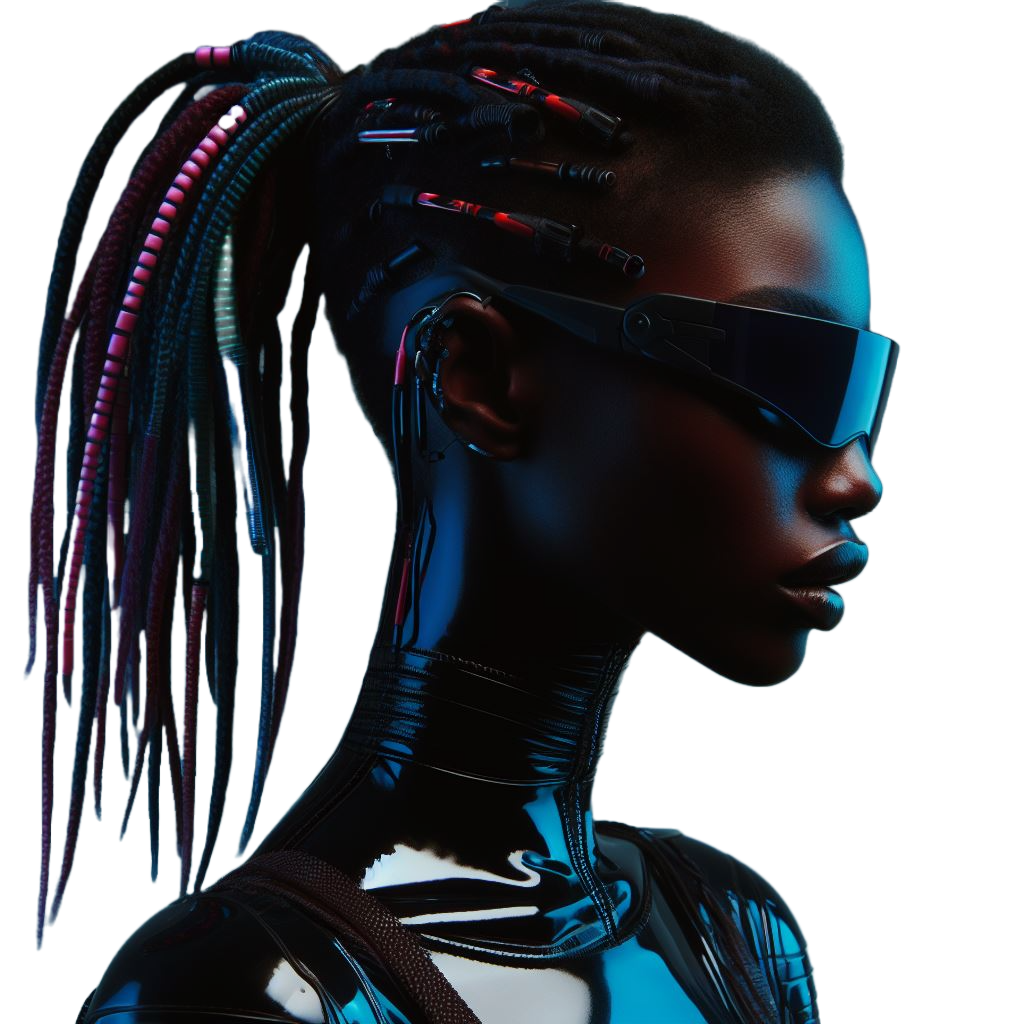
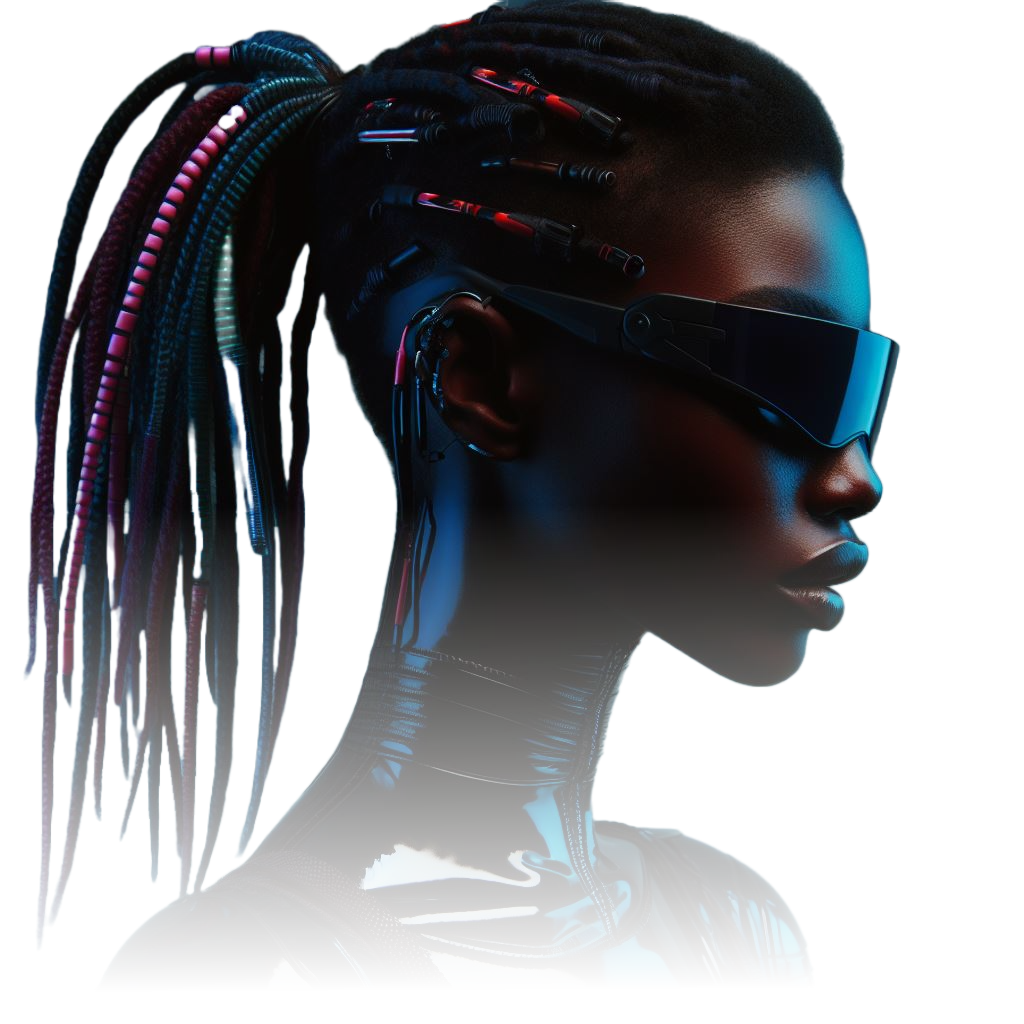
Responsive

Changed region(s): [[0.0, 0.5312, 0.8438, 1.0]]

diff --git a/style.css b/style.css
@@ -111,9 +111,16 @@ main #page-2 .aside h2{
     color: rgb(0, 153, 255);
     filter: drop-shadow(0 0 0.75rem rgba(255, 255, 255, 0.329));
 }
-main #page-2 .aside span{
+main #page-2 .aside a{
     border: 1px solid white;
     padding: 10px;
+    cursor: pointer;
+    transition: 1s;
+}
+main #page-2 .aside a:hover{
+    background-color: white;
+    color: rgb(25, 25, 25);
+    transform: scale(10px);
 }
 main #page-2 .other-side{
     width: 30%;
@@ -225,26 +232,32 @@ footer span{
         position: fixed;
         overflow: hidden;
     }
-    header nav{
+    header nav .none{
         display: none;
+    }
+    header nav{
+        overflow: hidden;
+    }
+    header nav a{
+        font-size: 3vw;
+        overflow: hidden;
+        margin-right: 30vw;
+        overflow: hidden;
+    }
+    header .header-icon img{
+        width: 30%; 
+    }
+    main #page-1{
+        height: 70vh;
     }
     main #page-1 .main-container{
         width: 100%;
-        height: 80vh;
-        margin-top: -20vh;
         display: flex;
         flex-direction: column;
         align-items: center;
         justify-content: flex-end; 
         border: 0px;
         border-radius: 0px;
-    }
-    main #page-1 .main-container h3{
-        display: contents;
-        font-size: 20vw;
-        color: rgb(255, 255, 255);
-        filter: drop-shadow(0 0 0.75rem rgba(235, 235, 235, 0.144));
-        font-family: 'Jost', sans-serif;
     }
     main #page-1 .main-container img{
         width: 90vw;
@@ -255,8 +268,8 @@ footer span{
         display: none;
     }
     main #page-2{
-        height: 130vh;
-        margin-top: -5vh;
+        height: 100vh;
+        margin-top: 3vh;
         flex-direction: column;
     }
     main #page-2 .aside{
@@ -265,8 +278,9 @@ footer span{
         overflow: hidden;
     }
     main #page-2 .aside h1{
-        font-size: 2rem;
+        font-size:8vw;
         overflow: hidden;
+        width: 100vw;
     }
     main #page-2 .aside h2{
         font-size: 1rem;
@@ -275,14 +289,15 @@ footer span{
         font-size: .7rem;
         padding: 10px 0 10px 0;
     }
-    main #page-2 .aside span{
+    main #page-2 .aside a{
+        font-size: 4vw;
         border: 1px solid white;
         padding: 10px;
     }
     main #page-2 .other-side{
         overflow: hidden;
         width: 80%;
-        margin-top: -20vh;
+        margin-top: -10vh;
     }
     main #page-2 .other-side img{
         width: 60vw;
@@ -317,7 +332,7 @@ footer span{
         box-shadow: rgba(0, 0, 0, 0.24) 0px 3px 8px;
     }
     main #page-4{
-        height: 70vh;
+        height: 80vh;
     }
     main #page-4 h1{
         font-size: 10vw;
@@ -326,6 +341,15 @@ footer span{
     main #page-4 p{
         font-size: 4vw;
         margin-top: 5vh;
+    }
+    main #page-5{
+        overflow: hidden;
+    }
+    main #page-5 h1{
+        overflow: hidden;
+    }
+    main #page-5 p{
+        overflow: hidden;
     }
     main #page-5 img{
         width: 10%;

diff --git a/index.html b/index.html
@@ -15,9 +15,9 @@
         <img src="imgs/logo-header.png" alt="IA Icon" />
       </div>
       <nav>
-        <a href="#">Download</a>
+        <a href="#" class="none">Download</a>
         <a href="#">Invite</a>
-        <a href="#">Help</a>
+        <a href="#" class="none">Help</a>
       </nav>
     </header>
     <main>
@@ -41,7 +41,7 @@
             maxime esse totam neque reiciendis facere explicabo nulla, ad
             repellat exercitationem veritatis?
           </p>
-          <span>GET IT.</span>
+          <a>GET IT.</a>
         </div>
         <div class="other-side" data-aos="fade-left" data-aos-delay="900">
           <img src="imgs/art-ia.jpg" alt="spaceman" />
